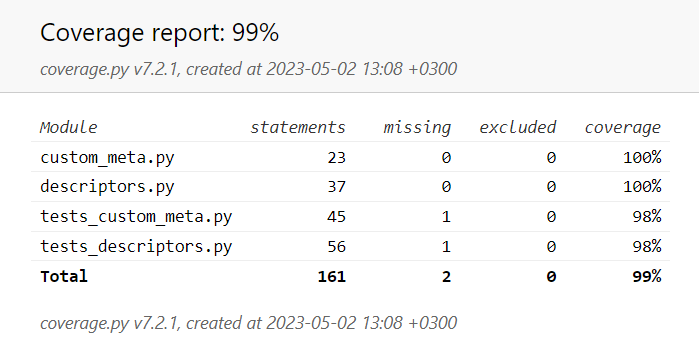
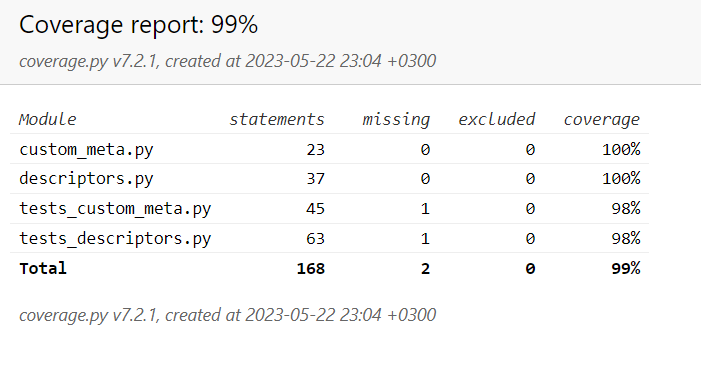
Add files via upload

diff --git a/04/tests_descriptors.py b/04/tests_descriptors.py
@@ -12,9 +12,12 @@ class TestDescriptors(unittest.TestCase):
         self.assertEqual(self.comp1.amount, 71)
         self.comp1.amount = 0
         self.assertEqual(self.comp1.amount, 0)
+
         with self.assertRaises(IncorrectType) as inc_type:
             self.comp1.amount = -10
         self.assertTrue("-10" in str(inc_type.exception))
+        self.assertEqual(self.comp1.amount, 0)
+
         del self.comp1.amount
         with self.assertRaises(AttributeError) as atr_err:
             print(self.comp1.amount)
@@ -27,18 +30,27 @@ class TestDescriptors(unittest.TestCase):
         self.assertEqual(self.comp1.name, "SBER")
         self.comp1.name = "GAZP"
         self.assertEqual(self.comp1.name, "GAZP")
+
         with self.assertRaises(IncorrectType) as inc_type:
             self.comp1.name = 123
         self.assertTrue("123" in str(inc_type.exception))
+        self.assertEqual(self.comp1.name, "GAZP")
+
         with self.assertRaises(IncorrectType) as inc_type:
             self.comp1.name = "123"
         self.assertTrue("123" in str(inc_type.exception))
+        self.assertEqual(self.comp1.name, "GAZP")
+
         with self.assertRaises(IncorrectType) as inc_type:
             self.comp1.name = "sber"
         self.assertTrue("sber" in str(inc_type.exception))
+        self.assertEqual(self.comp1.name, "GAZP")
+
         with self.assertRaises(IncorrectType) as inc_type:
             self.comp1.name = ""
         self.assertTrue("" in str(inc_type.exception))
+        self.assertEqual(self.comp1.name, "GAZP")
+
         del self.comp1.name
         with self.assertRaises(AttributeError) as atr_err:
             print(self.comp1.name)
@@ -53,12 +65,17 @@ class TestDescriptors(unittest.TestCase):
         self.assertEqual(self.comp1.price, 100.0)
         self.comp1.price = 1.1
         self.assertEqual(self.comp1.price, 1.1)
+
         with self.assertRaises(IncorrectType) as inc_type:
             self.comp1.price = 0
         self.assertTrue("0" in str(inc_type.exception))
+        self.assertTrue(self.comp1.price, 1.1)
+
         with self.assertRaises(IncorrectType) as inc_type:
             self.comp1.price = "some_str"
         self.assertTrue("some_str" in str(inc_type.exception))
+        self.assertTrue(self.comp1.price, 1.1)
+
         del self.comp1.price
         with self.assertRaises(AttributeError) as atr_err:
             print(self.comp1.price)
